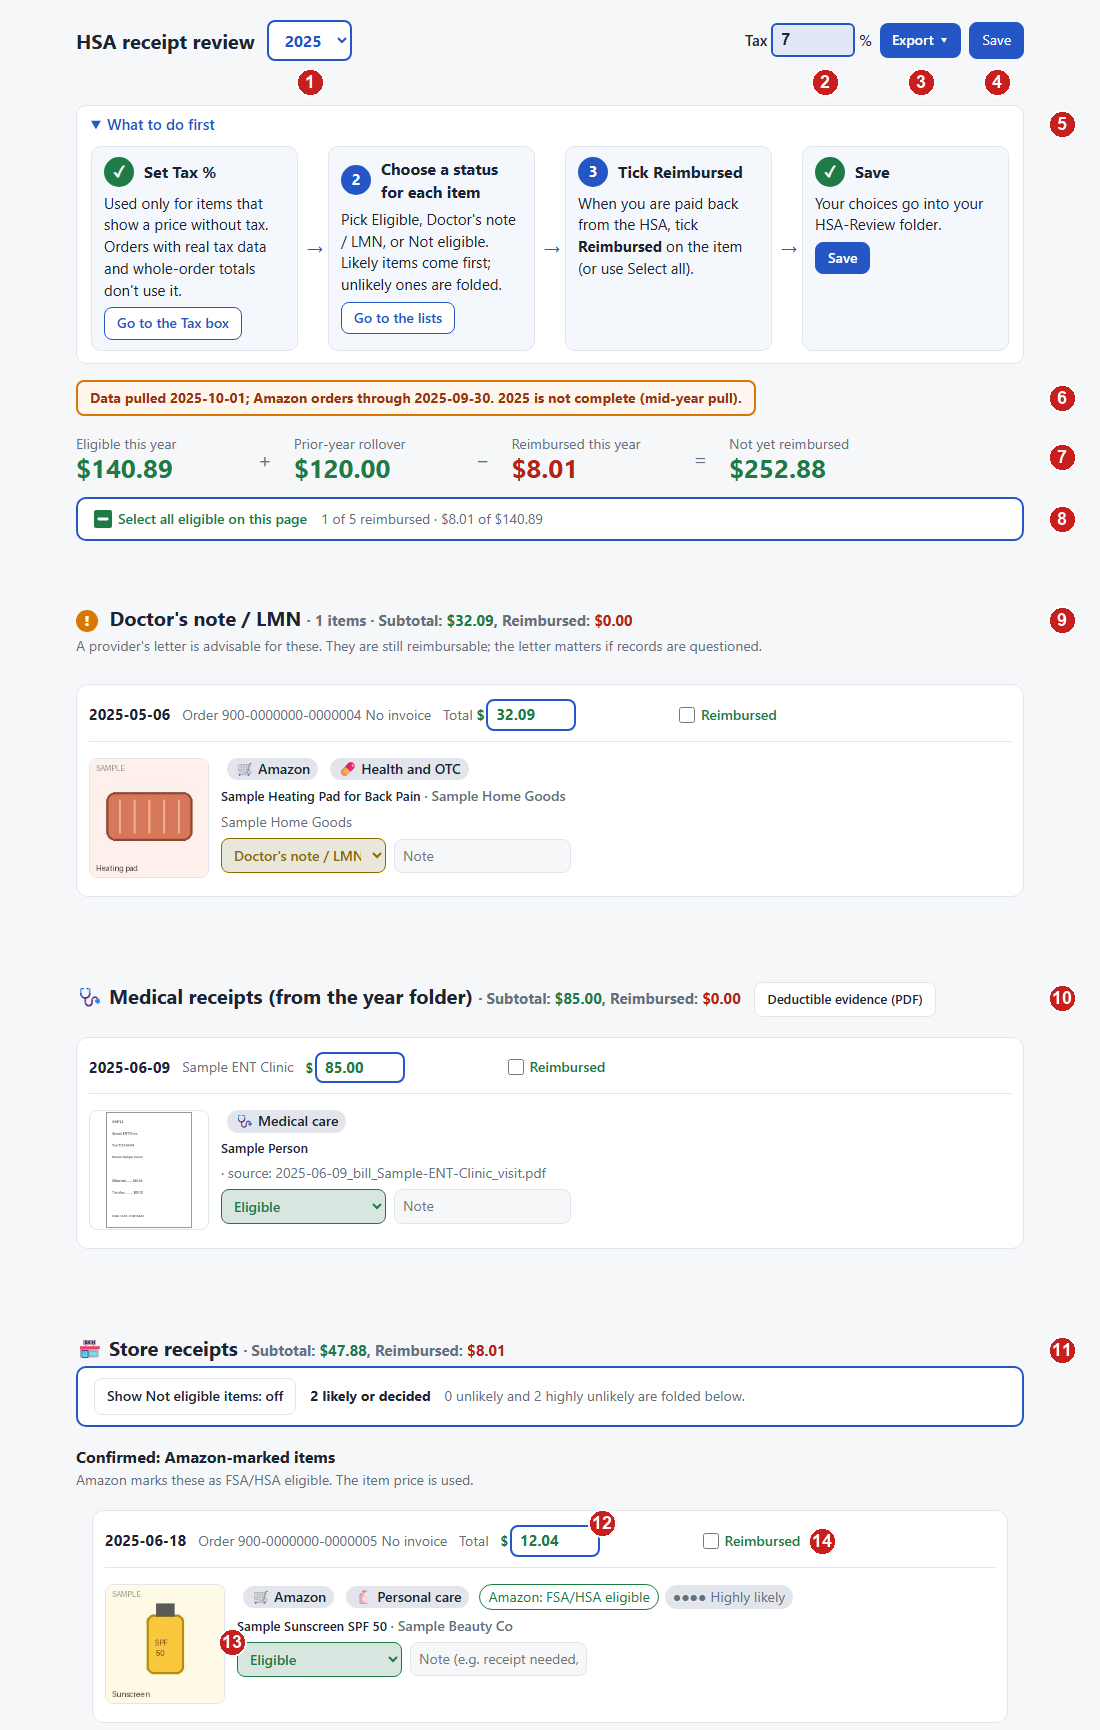
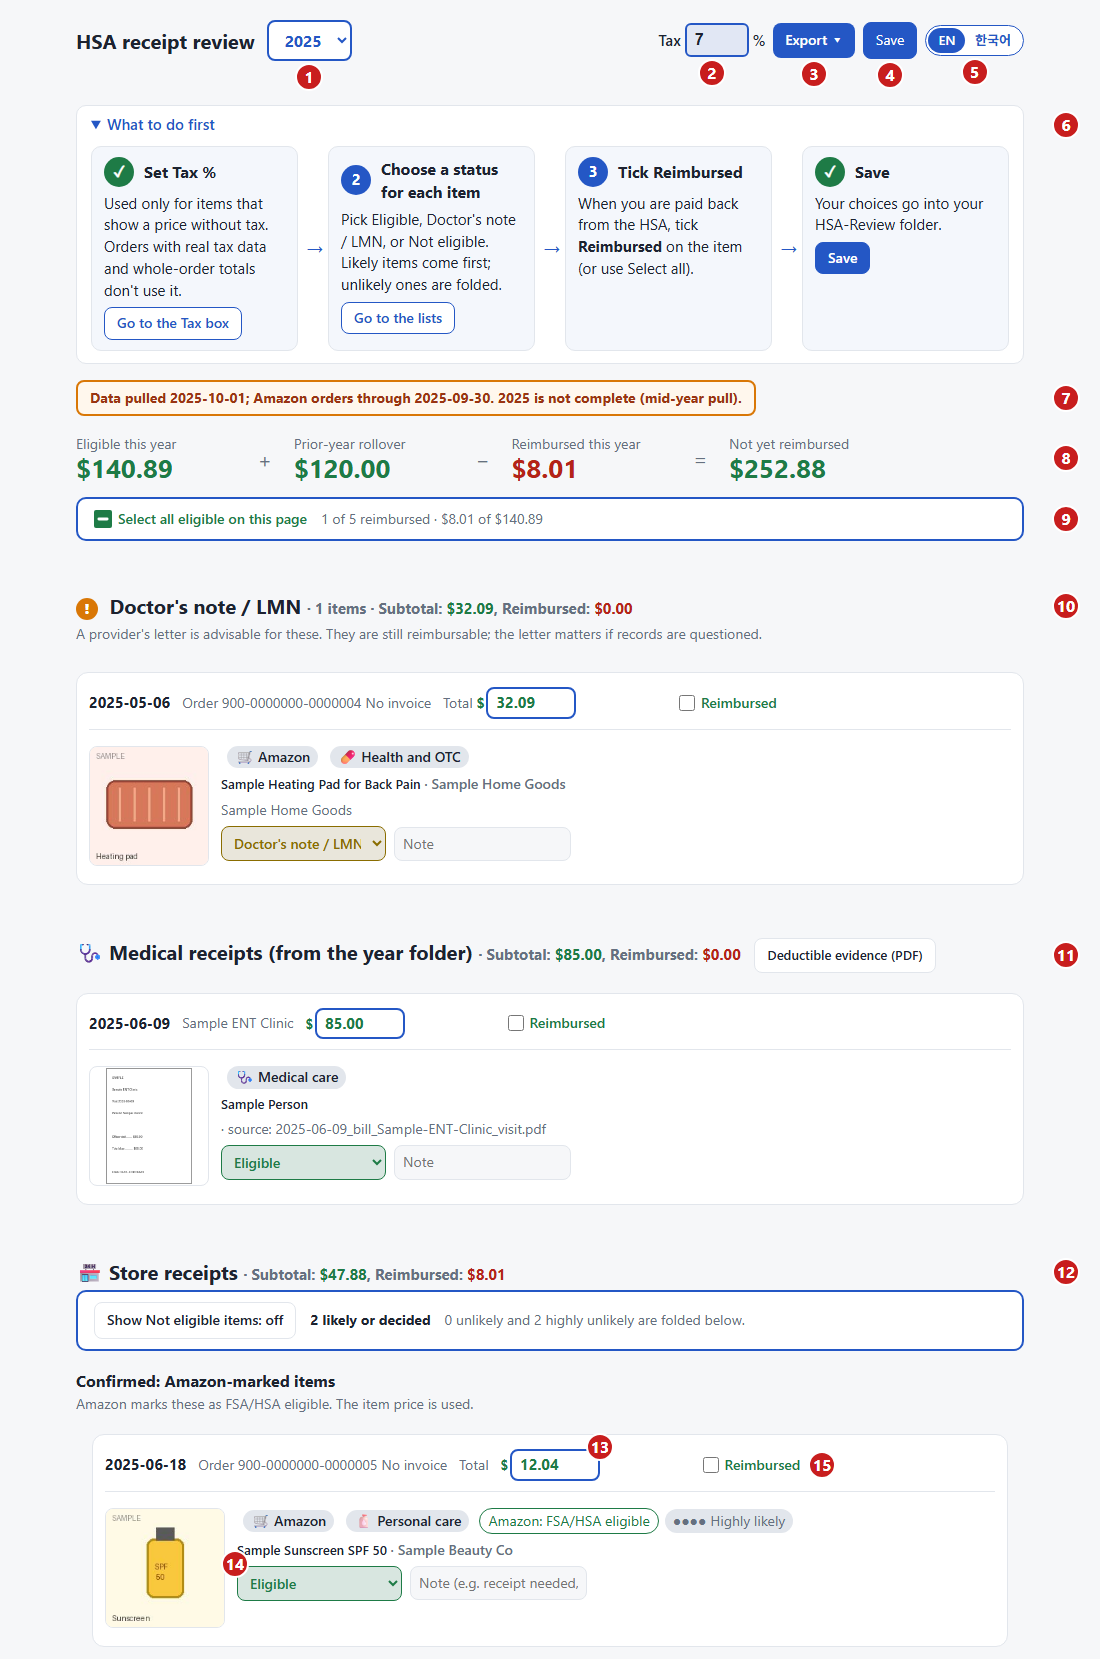
Add a Korean README and refresh the page screenshots
- README.ko.md translates the README, with an English | 한국어 link menu at the top of both files, and states that only Amazon orders and scanned or saved receipts are covered

- The annotated screenshots (English and Korean) show the compact layout and the language switch, with a 15-row legend matching the numbered markers

diff --git a/README.ko.md b/README.ko.md
@@ -1,0 +1,179 @@
+# HSA 영수증 검토
+
+[English](README.md) | **한국어**
+
+세금 신고를 위해 HSA 적격 구매 내역과 의료 영수증을 검토하고 정리하는, 내 컴퓨터에서만 돌아가는 비공개 대시보드입니다.
+
+건강저축계좌(HSA)는 자격이 되는 의료비를 세금 없이 쓸 수 있게 해 주지만, 정말 자격이 되는 항목만 해당하고 영수증으로 증빙해야 합니다. 이 도구는 1년치 구매 내역을 적격, 의사 소견서 필요, 부적격으로 분류하고 환급받은 내역을 기록합니다. [HSA에 대해 더 보기](#hsa-소개와-이-도구가-필요한-이유)
+
+이 프로젝트는 **LLM 사용자**(Claude Code, Cursor, Gemini CLI 등)를 위해 만들어졌습니다. Python 스크립트를 직접 작성하거나 실행할 필요가 없습니다. AI 어시스턴트가 파일을 관리하고, 진행 상황을 확인하고, 백그라운드에서 주문을 가져오는 동안 여러분은 브라우저 대시보드에서 모든 내용을 눈으로 확인하고 승인합니다. 구조와 데이터 흐름은 [HOW_IT_WORKS.md](HOW_IT_WORKS.md)(영어)를 참고하세요.
+
+> **지원 범위:** Amazon 주문(Amazon MCP 서버가 대신 읽어 옵니다)과 직접 스캔하거나 저장한 영수증(병원 청구서, 약국·매장 영수증)입니다. 다른 온라인 매장의 계정은 자동으로 읽지 않습니다.
+
+---
+
+## 빠른 체험 (설치 없음)
+
+설정하기 전에 대시보드가 어떻게 동작하는지 보고 싶으신가요?
+
+1. **Chrome** 또는 **Edge**에서 `review.html`을 엽니다.
+2. 폴더를 고르라는 안내가 나오면 이 저장소의 `samples` 폴더를 선택합니다.
+3. 가상의 영수증, 적격 여부 필터, 청구 보고서를 살펴보세요. 브라우저가 파일을 직접 읽으므로 서버나 Python이 필요 없습니다.
+
+![샘플 폴더로 연 검토 페이지](samples/sample-review-page-ko.png)
+
+| # | 설명 |
+|---|---|
+| 1 | **연도:** 데이터 폴더에 있는 과세 연도를 바꿉니다. |
+| 2 | **세율 %:** 세금이 표시되지 않은 항목 가격에 더하는 판매세율입니다. |
+| 3 | **내보내기:** HSA 관리 기관에 낼 청구 보고서와 CSV를 만듭니다. |
+| 4 | **저장:** 결정 내용을 `decisions.json`에 기록합니다(저장되지 않은 변경이 있으면 색이 바뀝니다). |
+| 5 | **EN \| 한국어:** 페이지를 한국어로, 또는 다시 영어로 바꿉니다. 선택은 기억됩니다. 상품명, 메모, 내보낸 보고서는 그대로 유지됩니다. |
+| 6 | **먼저 할 일:** 네 단계입니다. 세율 입력, 항목마다 상태 선택, 환급 완료 체크, 저장. |
+| 7 | **데이터 가져온 날 / 주문 기준일:** 데이터가 얼마나 최신인지 보여 주며, 해당 연도가 끝나지 않았으면 경고합니다. |
+| 8 | **합계:** 올해 적격 금액 + 전년도 이월액 − 환급액 = 앞으로 청구할 금액. |
+| 9 | **적격 항목 모두 선택:** 적격 항목 전체를 한 번에 환급 완료로 표시합니다. |
+| 10 | **의사 소견서 / LMN:** 의료진의 서신이 필요한 항목입니다. 여전히 환급 대상입니다. |
+| 11 | **의료 영수증:** 연도 폴더의 청구서이며, **공제 증빙(PDF)** 버튼이 있습니다. |
+| 12 | **매장 영수증:** Amazon 주문이며, 부적격 항목을 보이거나 숨기는 스위치가 있습니다. |
+| 13 | **금액:** 계산에 넣을 금액입니다. 가격의 일부만 해당하면 수정하세요(↺로 되돌립니다). |
+| 14 | **상태:** 적격, 의사 소견서 / LMN, 부적격, 미결정 중에서 고릅니다. Amazon의 "FSA/HSA 적격" 표시는 참고용일 뿐입니다. |
+| 15 | **환급 완료:** HSA에서 돌려받았을 때 체크합니다. 날짜가 자동으로 채워집니다. |
+
+`samples` 폴더에는 가상의 2025년 데이터가 들어 있습니다(주문 번호는 `900-`으로 시작). 따라서 여기 있는 내용은 실제 기록이 아닙니다. 스크린샷에는 폴더 버튼이 없습니다. `review.html`을 직접 열면 오른쪽 위에 이 버튼이 있고, 폴더를 열기 전에는 **영수증 폴더 선택**이라고 나오며 열고 나면 폴더 이름이 표시됩니다.
+
+---
+
+## HSA 소개와 이 도구가 필요한 이유
+
+**HSA**는 자격이 되는 의료비를 위한 세전 저축 계좌입니다. 납입하려면 **고공제 건강보험(HDHP)**에 가입되어 있어야 하며, 쓰지 않은 돈은 다음 해로 이월됩니다([Healthcare.gov](https://www.healthcare.gov/high-deductible-health-plan/), [HSA 개설](https://www.healthcare.gov/high-deductible-health-plan/setting-up-hsa/)). 자격이 되는 의료비로 인출하면 세금이 없고, 그 밖의 인출은 일반적으로 과세되며 20% 추가 세금이 붙을 수 있습니다([IRS Pub. 969](https://www.irs.gov/publications/p969)).
+
+**검토 도구가 필요한 이유.** 한 가정이 1년에 Amazon에서 수백 건을 주문할 수 있고, 그중 일부만 자격이 됩니다.
+- **항목별 판단:** 일반적으로 주된 목적이 의학적 상태를 진단, 치료, 완화 또는 예방하는 것이어야 하며, 단순히 건강에 좋은 정도로는 안 됩니다([IRS Pub. 502](https://www.irs.gov/publications/p502)).
+- **일반의약품(OTC)**은 2020년부터 처방전 없이도 인정됩니다([IRS 요약](https://www.irs.gov/newsroom/irs-outlines-changes-to-health-care-spending-available-under-cares-act)). Pub. 502만 보면 예전 규정이 나와 있습니다.
+- **용도가 겹치는 물품**(마사지 도구, 공기청정기 등)은 의료진의 의료 필요성 증명서(LMN)가 필요할 수 있습니다.
+- **기록:** 항목별로 적힌 영수증을 보관하세요. 같은 비용을 두 번 환급받을 수 없으며, HSA를 개설한 이후에 발생한 비용이어야 합니다(Pub. 969).
+
+도구는 제안만 하고 결정은 여러분이 하며, 어떤 데이터도 컴퓨터 밖으로 나가지 않습니다. 이는 분류를 돕는 도구이지 세무 자문이 아닙니다. 도구가 쓰는 요약본은 출처와 검토 날짜와 함께 [`eligibility_reference.md`](skills/hsa-categorize/eligibility_reference.md)(영어)에 있습니다.
+
+---
+
+## 시작하기: AI 어시스턴트에게 맡기세요
+
+터미널 명령을 직접 실행할 필요가 없습니다. 이 프로젝트 폴더에서 LLM 에이전트를 시작하고 이렇게 입력하세요.
+
+> *"Open my HSA review"*  
+> *(또는: "Read [AGENTS.md](AGENTS.md) and set up my HSA review")*
+
+### 어시스턴트가 대신 해 주는 일
+1. **데이터 폴더 준비:** 환경을 확인하고 이 저장소 밖에 비공개 데이터 폴더(예: `Documents/HSA-Review`)를 만듭니다.
+2. **Amazon 도구 연결:** 읽기 전용 Amazon MCP 서버를 설정해, 요청이 있을 때 주문 내역과 인보이스 PDF를 가져올 수 있게 합니다.
+3. **체크리스트 관리:** 현재 어디까지 했는지 살피고 바로 다음 할 일을 알려 줍니다.
+4. **적격 여부 초안:** 항목을 IRS Publication 502 기준과 대조해, 검토용 후보 메모를 달아 줍니다.
+
+모든 영수증, 금전 결정, 개인 기록은 내 컴퓨터의 비공개 데이터 폴더에만 보관됩니다.
+
+---
+
+## 검토하는 방법 (Python 불필요)
+
+어시스턴트가 주문이나 영수증을 모아 주면 화면에서 눈으로 검토합니다.
+
+1. Chrome 또는 Edge에서 `review.html`을 더블클릭합니다(또는 설정 중에 만든 바탕화면 바로가기를 사용합니다).
+2. 안내가 나오면 비공개 데이터 폴더를 선택합니다(브라우저가 다음번을 위해 기억합니다).
+3. 항목을 검토해 **적격**, **부적격**, **LMN 필요**(의료 필요성 증명서)로 표시하고 환급 금액을 기록합니다.
+4. 내보내기: **청구 보고서** 또는 **CSV 내보내기**를 눌러 HSA 관리 기관이나 세금 기록에 쓸 문서를 만듭니다.
+
+Chrome과 Edge에서는 검토 페이지가 브라우저의 기본 파일 접근 기능으로 내 데이터 폴더에 직접 연결됩니다. 검토하거나 저장하는 데 로컬 서버, 명령줄, Python이 필요하지 않습니다.
+
+---
+
+## 동작 방식
+
+전체 구조, 구성 요소의 역할("누가 무엇을 하나"), MCP 동작 원리는 **[HOW_IT_WORKS.md](HOW_IT_WORKS.md)**(영어)를 참고하세요.
+
+전체 흐름은 AI 어시스턴트의 파일 처리 능력과 여러분의 시각적 검토를 결합한 것입니다.
+
+```text
+ 1. 로그인 (처음 한 번)
+    └── 브라우저 창에서 로그인합니다. 세션 쿠키는 ~/.amazon-orders-mcp/ 에만 저장됩니다
+
+ 2. 데이터 수집 (LLM + MCP)
+    ├── Amazon에 접속하는 요청마다 여러분이 승인합니다
+    ├── MCP 서버가 주문 페이지를 읽고 인보이스 PDF를 receipts/ 에 내려받습니다
+    └── 병원 청구서나 약국 영수증을 receipts/ 에 넣으면 어시스턴트가 이름을 자동으로 붙입니다
+
+ 3. 분류 (LLM)
+    └── 어시스턴트가 항목을 살펴보고 IRS Pub. 502 기준의 적격 여부 메모 초안을 씁니다
+
+ 4. 검토와 결정 (브라우저 - Python 불필요)
+    ├── 어시스턴트가 처리된 항목을 <데이터 폴더>/<연도>/_app/data.json 에 씁니다
+    └── review.html 을 열어 적격 여부를 확인하고, 메모를 고치고, 환급 내역을 기록합니다
+
+ 5. 내보내기 (브라우저)
+    └── 청구 보고서 PDF, 의료 증빙 PDF 또는 CSV 를 만듭니다
+```
+
+---
+
+## Model Context Protocol (MCP) 사용
+
+이 프로젝트에는 [`mcp/amazon-orders/`](mcp/amazon-orders/README.md)에 Amazon MCP 서버가 들어 있습니다(`seanoliver/amazon-orders-mcp` 기반). AI 어시스턴트가 직접 입력 없이 주문 내역을 읽고 상품의 적격 여부를 확인할 수 있게 해 줍니다.
+
+### 사용 가능한 도구
+
+| 도구 | 로그인 필요 | 용도 |
+|---|---|---|
+| `refresh_session` | 예 (보이는 창) | Amazon 로그인과 2단계 인증을 위해 대화형 Chromium 브라우저를 엽니다. 세션을 `~/.amazon-orders-mcp/cookies.json`에 로컬로 저장합니다. |
+| `get_order_history(year)` | 예 (창 없이) | 특정 과세 연도의 주문 번호와 날짜를 가져옵니다. |
+| `get_order(order_id)` | 예 (창 없이) | 한 주문의 항목, 가격, 판매자 정보, 인보이스 PDF를 가져옵니다. |
+| `check_asin_eligibility(asin)` | 아니요 (창 없이) | 공개 Amazon 상품 페이지에서 "FSA or HSA eligible" 표시를 확인합니다. |
+
+### 안전 장치
+- **읽기 전용:** 도구는 주문 내역과 공개 상품 페이지만 살펴봅니다. 구매하거나, 장바구니에 담거나, 계정 설정을 바꾸지 않습니다.
+- **명시적 승인:** 어시스턴트는 Amazon에 접속하는 요청을 하기 전에 반드시 여러분의 확인을 받아야 합니다.
+- **세션 만료:** 주문 페이지는 최근 1시간 안에 활성화된 Amazon 세션이 필요합니다.
+- **설정과 동작 원리:** [`.mcp.json.example`](.mcp.json.example)을 `.mcp.json`으로 복사하거나 사용하는 클라이언트에서 설정하세요. 설정은 [`mcp/amazon-orders/README.md`](mcp/amazon-orders/README.md), 내부 데이터 흐름은 [`HOW_IT_WORKS.md`](HOW_IT_WORKS.md)를 참고하세요(영어).
+
+---
+
+## 문서와 파일의 역할
+
+| 문서 / 폴더 | 역할 |
+|---|---|
+| [`review.html`](review.html) | 항목 검토, 메모 편집, 청구 내보내기를 하는 웹 대시보드입니다. Python 없이 Chrome/Edge에서 바로 실행됩니다. |
+| [`HOW_IT_WORKS.md`](HOW_IT_WORKS.md) | 기술 구조, 구성 요소의 역할("누가 무엇을 하나"), 데이터 흐름도, MCP 동작 원리, 데이터 폴더 구성, 이월 규칙, 로그 한도(영어). |
+| [`AGENTS.md`](AGENTS.md) | AI 어시스턴트의 기본 규칙서입니다. 설정 단계, 도구 호출, 안전 한계를 다룹니다(영어). |
+| [`mcp/amazon-orders/`](mcp/amazon-orders/README.md) | Amazon Orders MCP 서버 코드, 도구 정의, 등록 안내입니다. |
+| [`skills/`](skills/) | AI 어시스턴트를 위한 작업별 안내서입니다(`hsa-review`, `hsa-setup`, `amazon-live-batch`, `hsa-categorize`, `hsa-reports`, `hsa-organize-files`). |
+| [`skills/hsa-categorize/eligibility_reference.md`](skills/hsa-categorize/eligibility_reference.md) | IRS Publication 502의 적격 기준과 자격이 되는 의료비 범주를 정리한 참고 자료입니다(영어). |
+| [`templates/`](templates/) | 새 과세 연도를 시작할 때 쓰는 예시 JSON 구조 파일입니다. |
+| [`samples/`](samples/) | 테스트와 30초 체험에 쓰는 공개용 가상 데이터입니다. |
+
+---
+
+## 개인정보와 저장 위치
+
+- **코드 폴더(이 저장소):** 소프트웨어와 샘플만 들어 있습니다. 업데이트하거나 git에 커밋해도 안전하며, 개인 데이터가 전혀 없습니다.
+- **데이터 폴더(`Documents/HSA-Review`):** 개인 영수증, 결정 내용, 세금 기록이 들어 있습니다. 내 컴퓨터에만 있고 Git 밖에 있습니다.
+- 개인정보 점검: 언제든 `python tools/check_personal_data.py`를 실행하거나 어시스턴트에게 실행을 요청해, 코드 폴더에 개인 파일이 들어가지 않았는지 확인하세요.
+
+---
+
+## 백그라운드에서 쓰는 명령 (선택)
+
+이 명령들은 AI 어시스턴트가 대신 실행하지만, 터미널이 편하다면 직접 실행해도 됩니다.
+
+| 명령 | 하는 일 |
+|---|---|
+| `python tools/hsa.py status` | 현재 상태 체크리스트와 바로 다음 할 일 하나를 보여 줍니다 |
+| `python tools/hsa.py setup` | 단계별 안내 설정 스크립트 |
+| `python tools/hsa.py open` | 검토 대시보드를 브라우저에서 엽니다(Firefox/Safari에서 필요) |
+| `python tools/hsa.py shortcut` | 더블클릭용 바탕화면 바로가기를 만듭니다 |
+| `python tools/organize_files.py <폴더>` | 영수증 파일의 이름을 자동으로 붙이고 데이터 폴더에 정리합니다 |
+| `python tools/hsa.py invoices` | 인보이스 영수증이 없는 적격 주문을 보여 줍니다 |
+| `python tools/check_personal_data.py` | 코드 폴더에 개인 데이터가 없는지 확인합니다 |
+
+---
+
+*면책: 세무 또는 법률 자문이 아닙니다. 청구하기 전에 HSA 관리 기관의 규정과 IRS Publication 502를 확인하세요.*

diff --git a/README.md b/README.md
@@ -1,10 +1,14 @@
 # HSA Receipt Review
 
+**English** | [한국어](README.ko.md)
+
 A private, local dashboard to review and organize your HSA-eligible purchases and medical receipts for taxes.
 
 A Health Savings Account (HSA) pays qualified medical expenses tax-free, but only for items that truly qualify, backed by a receipt. This tool sorts a year of purchases into eligible, doctor's note needed, and not eligible, and tracks what you have been reimbursed. [More about HSAs](#about-hsas-and-why-this-tool-exists).
 
 This project is built for **LLM users** (Claude Code, Cursor, Gemini CLI, etc.). You do not need to write or run Python scripts yourself: your AI assistant manages the files, checks status, and pulls orders in the background, while you review and approve everything in a visual browser dashboard. For technical architecture and data flow, see [HOW_IT_WORKS.md](HOW_IT_WORKS.md).
+
+> **What it covers:** Amazon orders (read for you by the Amazon MCP server) and receipts you scan or save yourself (clinic bills, pharmacy and store receipts). Other online stores' accounts are not read automatically.
 
 ---
 
@@ -24,18 +28,19 @@ Want to see how the dashboard works before setting anything up?
 | 2 | **Tax %:** sales tax added to item prices that show no tax. |
 | 3 | **Export:** claim report and CSV for your HSA administrator. |
 | 4 | **Save:** writes your decisions to `decisions.json` (turns a different color when something is unsaved). |
-| 5 | **What to do first:** the four steps: set Tax %, choose a status per item, tick Reimbursed, Save. |
-| 6 | **Data pulled / orders through:** how current the data is; warns if the year is incomplete. |
-| 7 | **Totals:** eligible this year + prior-year rollover − reimbursed = still to claim. |
-| 8 | **Select all eligible:** mark every eligible item reimbursed at once. |
-| 9 | **Doctor's note / LMN:** items that need a provider's letter. Still reimbursable. |
-| 10 | **Medical receipts:** bills from the year folder, with a **Deductible evidence (PDF)** button. |
-| 11 | **Store receipts:** Amazon orders, with a switch to show or hide Not eligible items. |
-| 12 | **Amount:** the amount to count; edit it if only part of the price qualifies (↺ resets it). |
-| 13 | **Status:** Eligible, Doctor's note / LMN, Not eligible, or Undecided. Amazon's "FSA/HSA eligible" label is only a hint. |
-| 14 | **Reimbursed:** tick when your HSA has paid you back; a date is filled in. |
+| 5 | **EN \| 한국어:** shows the page in Korean and back; your choice is remembered. Product titles, notes, and exported reports stay as they are. |
+| 6 | **What to do first:** the four steps: set Tax %, choose a status per item, tick Reimbursed, Save. |
+| 7 | **Data pulled / orders through:** how current the data is; warns if the year is incomplete. |
+| 8 | **Totals:** eligible this year + prior-year rollover − reimbursed = still to claim. |
+| 9 | **Select all eligible:** mark every eligible item reimbursed at once. |
+| 10 | **Doctor's note / LMN:** items that need a provider's letter. Still reimbursable. |
+| 11 | **Medical receipts:** bills from the year folder, with a **Deductible evidence (PDF)** button. |
+| 12 | **Store receipts:** Amazon orders, with a switch to show or hide Not eligible items. |
+| 13 | **Amount:** the amount to count; edit it if only part of the price qualifies (↺ resets it). |
+| 14 | **Status:** Eligible, Doctor's note / LMN, Not eligible, or Undecided. Amazon's "FSA/HSA eligible" label is only a hint. |
+| 15 | **Reimbursed:** tick when your HSA has paid you back; a date is filled in. |
 
-The `samples` folder holds fake 2025 data (order numbers start with `900-`), so nothing here is a real record. The screenshot omits the **Choose receipts folder** button, which sits at the top right when you open `review.html` directly.
+The `samples` folder holds fake 2025 data (order numbers start with `900-`), so nothing here is a real record. The screenshot omits the folder button, which sits at the top right when you open `review.html` directly: it shows **Choose receipts folder** until a folder is open, then the folder's name.
 
 ---
 
